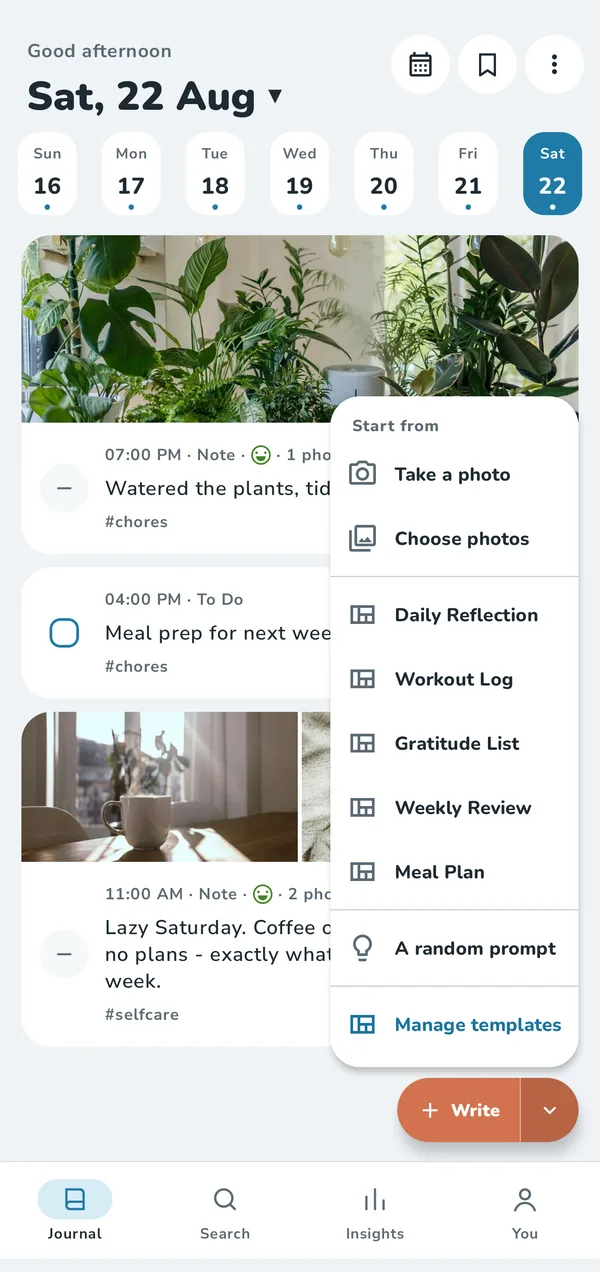
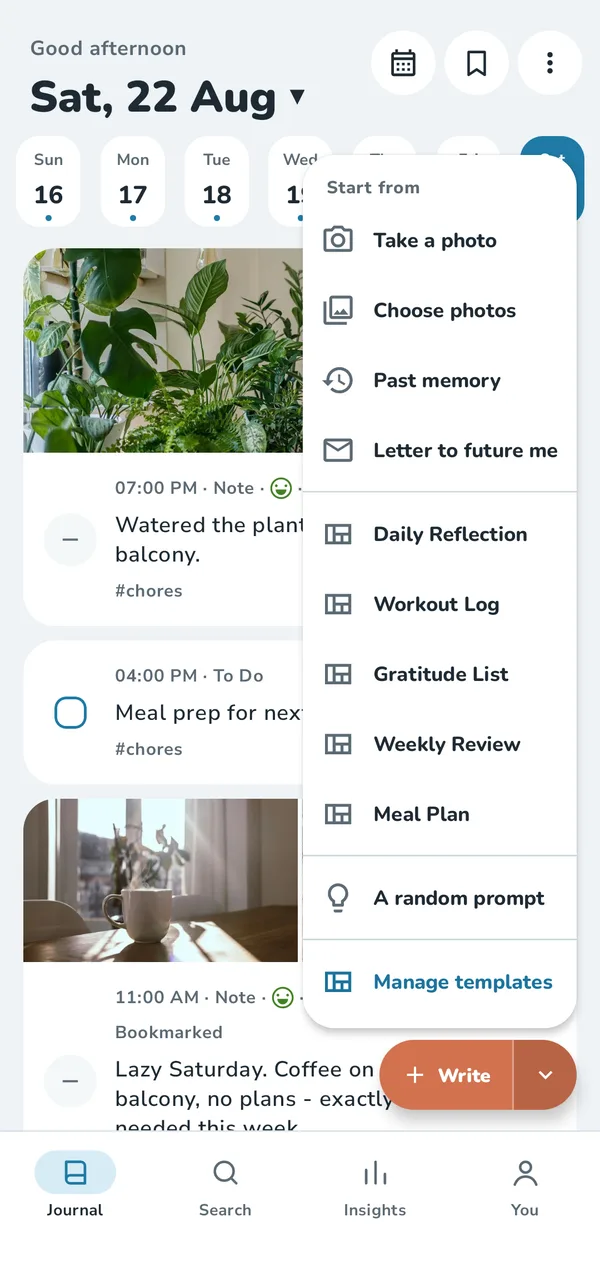
2.9.1: Letters to future me, Past memory, new Write menu and Year in moods shots, letters FAQ

diff --git a/index.html b/index.html
@@ -24,8 +24,8 @@
 <a class="skip" href="#main">Skip to content</a>
 <header class="site-header">
 <div class="wrap header-row">
-<a class="brand" href="index.html"><img src="assets/icon.svg" width="36" height="36" alt=""><span>Tamsi</span></a>
-<nav class="site-nav" aria-label="Main"><ul><li><a href="index.html#features">Features</a></li><li><a href="index.html#premium">Premium</a></li><li><a href="faq.html">Help</a></li><li><a href="privacy.html">Privacy</a></li></ul></nav>
+<a class="brand" href="/"><img src="assets/icon.svg" width="36" height="36" alt=""><span>Tamsi</span></a>
+<nav class="site-nav" aria-label="Main"><ul><li><a href="/#features">Features</a></li><li><a href="/#premium">Premium</a></li><li><a href="faq.html">Help</a></li><li><a href="privacy.html">Privacy</a></li></ul></nav>
 <a class="button button-small header-cta" href="https://play.google.com/store/apps/details?id=com.odralliv.quickjournal"><svg viewBox="0 0 24 24" aria-hidden="true" focusable="false"><path fill="currentColor" d="M7 4.5v15a1 1 0 0 0 1.5.86l12-7.5a1 1 0 0 0 0-1.72l-12-7.5A1 1 0 0 0 7 4.5Z"/></svg><span>Get the app</span></a>
 </div>
 </header>
@@ -64,15 +64,24 @@ before the moment is gone. Then back to your day.</p>
 <p class="lede">Open, write a line, close. Tamsi keeps the friction out so the habit can stay.</p>
 </header>
 <section class="feature">
-<div class="feature-media"><div class="phone"><img src="assets/shots/write-menu.webp" width="600" height="1272" alt="The Journal screen with the Write menu open: take a photo, choose photos, templates and a random prompt" loading="lazy" decoding="async"></div></div>
+<div class="feature-media"><div class="phone"><img src="assets/shots/write-menu.webp" width="600" height="1272" alt="The Journal screen with the Write menu open: take a photo, choose photos, past memory, letter to future me, templates and a random prompt" loading="lazy" decoding="async"></div></div>
 <div class="feature-text">
 <p class="eyebrow">Writing</p>
 <h2>One tap to write.</h2>
-<p class="lede">Tap Write and a fresh page is ready with the keyboard up. Or start from a photo, a template or a prompt.</p>
-<ul class="checks"><li><svg viewBox="0 0 24 24" aria-hidden="true" focusable="false" fill="none" stroke="currentColor" stroke-width="1.8" stroke-linecap="round" stroke-linejoin="round"><path d="M5 12.5l4.5 4.5L19 7.5"/></svg><span>Templates for the things you log often</span></li><li><svg viewBox="0 0 24 24" aria-hidden="true" focusable="false" fill="none" stroke="currentColor" stroke-width="1.8" stroke-linecap="round" stroke-linejoin="round"><path d="M5 12.5l4.5 4.5L19 7.5"/></svg><span>A Write widget and a Quick Settings tile</span></li><li><svg viewBox="0 0 24 24" aria-hidden="true" focusable="false" fill="none" stroke="currentColor" stroke-width="1.8" stroke-linecap="round" stroke-linejoin="round"><path d="M5 12.5l4.5 4.5L19 7.5"/></svg><span>Daily reminder at the time you choose</span></li></ul>
+<p class="lede">Tap Write and a fresh page is ready with the keyboard up. Or start from a photo, a past memory, a template or a prompt.</p>
+<ul class="checks"><li><svg viewBox="0 0 24 24" aria-hidden="true" focusable="false" fill="none" stroke="currentColor" stroke-width="1.8" stroke-linecap="round" stroke-linejoin="round"><path d="M5 12.5l4.5 4.5L19 7.5"/></svg><span>Past memory: start from an old photo and the entry lands on the day it was taken</span></li><li><svg viewBox="0 0 24 24" aria-hidden="true" focusable="false" fill="none" stroke="currentColor" stroke-width="1.8" stroke-linecap="round" stroke-linejoin="round"><path d="M5 12.5l4.5 4.5L19 7.5"/></svg><span>Templates for the things you log often</span></li><li><svg viewBox="0 0 24 24" aria-hidden="true" focusable="false" fill="none" stroke="currentColor" stroke-width="1.8" stroke-linecap="round" stroke-linejoin="round"><path d="M5 12.5l4.5 4.5L19 7.5"/></svg><span>A Write widget and a Quick Settings tile</span></li><li><svg viewBox="0 0 24 24" aria-hidden="true" focusable="false" fill="none" stroke="currentColor" stroke-width="1.8" stroke-linecap="round" stroke-linejoin="round"><path d="M5 12.5l4.5 4.5L19 7.5"/></svg><span>Daily reminder at the time you choose</span></li></ul>
 </div>
 </section>
 <section class="feature feature-flip">
+<div class="feature-media"><div class="phone"><img src="assets/shots/letters.webp" width="600" height="1272" alt="Letters to future me: five sealed letters, opening in 5 weeks, 6 weeks, 2 months, 10 months and 4 years" loading="lazy" decoding="async"></div></div>
+<div class="feature-text">
+<p class="eyebrow">Letters to future me</p>
+<h2>Write to future you.</h2>
+<p class="lede">Seal a letter and choose the day it opens: next month, next year or years from now. Until then it stays sealed.</p>
+<ul class="checks"><li><svg viewBox="0 0 24 24" aria-hidden="true" focusable="false" fill="none" stroke="currentColor" stroke-width="1.8" stroke-linecap="round" stroke-linejoin="round"><path d="M5 12.5l4.5 4.5L19 7.5"/></svg><span>It waits in your journal on the day it opens</span></li><li><svg viewBox="0 0 24 24" aria-hidden="true" focusable="false" fill="none" stroke="currentColor" stroke-width="1.8" stroke-linecap="round" stroke-linejoin="round"><path d="M5 12.5l4.5 4.5L19 7.5"/></svg><span>A note that morning, if you want one</span></li><li><svg viewBox="0 0 24 24" aria-hidden="true" focusable="false" fill="none" stroke="currentColor" stroke-width="1.8" stroke-linecap="round" stroke-linejoin="round"><path d="M5 12.5l4.5 4.5L19 7.5"/></svg><span>Every letter you've sealed, with how long until each one opens</span></li></ul>
+</div>
+</section>
+<section class="feature">
 <div class="feature-media"><div class="phone"><img src="assets/shots/widgets.webp" width="600" height="1272" alt="Three Tamsi home-screen widgets: Write with camera and gallery buttons, Templates and Saved searches" loading="lazy" decoding="async"></div></div>
 <div class="feature-text">
 <p class="eyebrow">Widgets</p>
@@ -81,7 +90,7 @@ before the moment is gone. Then back to your day.</p>
 <ul class="checks"><li><svg viewBox="0 0 24 24" aria-hidden="true" focusable="false" fill="none" stroke="currentColor" stroke-width="1.8" stroke-linecap="round" stroke-linejoin="round"><path d="M5 12.5l4.5 4.5L19 7.5"/></svg><span>Write, camera and gallery buttons in one widget</span></li><li><svg viewBox="0 0 24 24" aria-hidden="true" focusable="false" fill="none" stroke="currentColor" stroke-width="1.8" stroke-linecap="round" stroke-linejoin="round"><path d="M5 12.5l4.5 4.5L19 7.5"/></svg><span>Your templates and saved searches, one tap away</span></li><li><svg viewBox="0 0 24 24" aria-hidden="true" focusable="false" fill="none" stroke="currentColor" stroke-width="1.8" stroke-linecap="round" stroke-linejoin="round"><path d="M5 12.5l4.5 4.5L19 7.5"/></svg><span>Each widget has its own settings: how see-through it is, and the colour of its text and icons</span></li><li><svg viewBox="0 0 24 24" aria-hidden="true" focusable="false" fill="none" stroke="currentColor" stroke-width="1.8" stroke-linecap="round" stroke-linejoin="round"><path d="M5 12.5l4.5 4.5L19 7.5"/></svg><span>Names stay hidden while app lock is on, unless you choose to show them</span></li></ul>
 </div>
 </section>
-<section class="feature">
+<section class="feature feature-flip">
 <div class="feature-media"><div class="phone"><img src="assets/shots/journal-week.webp" width="600" height="1272" alt="A week in the journal: an event, a finished to-do and a photo note" loading="lazy" decoding="async"></div></div>
 <div class="feature-text">
 <p class="eyebrow">Your day, your way</p>
@@ -90,7 +99,7 @@ before the moment is gone. Then back to your day.</p>
 <ul class="checks"><li><svg viewBox="0 0 24 24" aria-hidden="true" focusable="false" fill="none" stroke="currentColor" stroke-width="1.8" stroke-linecap="round" stroke-linejoin="round"><path d="M5 12.5l4.5 4.5L19 7.5"/></svg><span>To-dos you can tick off, with unfinished ones moved to today if you like</span></li><li><svg viewBox="0 0 24 24" aria-hidden="true" focusable="false" fill="none" stroke="currentColor" stroke-width="1.8" stroke-linecap="round" stroke-linejoin="round"><path d="M5 12.5l4.5 4.5L19 7.5"/></svg><span>Search by words, #tags and moods, saved searches and Insights</span></li><li><svg viewBox="0 0 24 24" aria-hidden="true" focusable="false" fill="none" stroke="currentColor" stroke-width="1.8" stroke-linecap="round" stroke-linejoin="round"><path d="M5 12.5l4.5 4.5L19 7.5"/></svg><span>On this day: what you wrote in past years</span></li></ul>
 </div>
 </section>
-<section class="feature feature-flip">
+<section class="feature">
 <div class="feature-media"><div class="phone"><img src="assets/shots/editor.webp" width="600" height="1272" alt="An entry about a hike with four photos, a mood and two tags" loading="lazy" decoding="async"></div></div>
 <div class="feature-text">
 <p class="eyebrow">Photos</p>
@@ -99,7 +108,7 @@ before the moment is gone. Then back to your day.</p>
 <ul class="checks"><li><svg viewBox="0 0 24 24" aria-hidden="true" focusable="false" fill="none" stroke="currentColor" stroke-width="1.8" stroke-linecap="round" stroke-linejoin="round"><path d="M5 12.5l4.5 4.5L19 7.5"/></svg><span>Location and camera details are removed from the copy Tamsi keeps</span></li><li><svg viewBox="0 0 24 24" aria-hidden="true" focusable="false" fill="none" stroke="currentColor" stroke-width="1.8" stroke-linecap="round" stroke-linejoin="round"><path d="M5 12.5l4.5 4.5L19 7.5"/></svg><span>Your original photos stay untouched in your gallery</span></li><li><svg viewBox="0 0 24 24" aria-hidden="true" focusable="false" fill="none" stroke="currentColor" stroke-width="1.8" stroke-linecap="round" stroke-linejoin="round"><path d="M5 12.5l4.5 4.5L19 7.5"/></svg><span>Share photos from an entry to any app</span></li></ul>
 </div>
 </section>
-<section class="feature">
+<section class="feature feature-flip">
 <div class="feature-media"><div class="phone"><img src="assets/shots/look-back.webp" width="600" height="1272" alt="The 2026 so far review: 242 entries on 225 days, a mood mix, top tags, busiest month and photos" loading="lazy" decoding="async"></div></div>
 <div class="feature-text">
 <p class="eyebrow">Look back</p>
@@ -108,16 +117,16 @@ before the moment is gone. Then back to your day.</p>
 <ul class="checks"><li><svg viewBox="0 0 24 24" aria-hidden="true" focusable="false" fill="none" stroke="currentColor" stroke-width="1.8" stroke-linecap="round" stroke-linejoin="round"><path d="M5 12.5l4.5 4.5L19 7.5"/></svg><span>Your top tags, busiest month and the photos you added</span></li><li><svg viewBox="0 0 24 24" aria-hidden="true" focusable="false" fill="none" stroke="currentColor" stroke-width="1.8" stroke-linecap="round" stroke-linejoin="round"><path d="M5 12.5l4.5 4.5L19 7.5"/></svg><span>Rather not see something again? Hide it from look backs</span></li></ul>
 </div>
 </section>
-<section class="feature feature-flip">
-<div class="feature-media"><div class="phone"><img src="assets/shots/year-in-moods.webp" width="600" height="1272" alt="Year in moods for 2026: a grid of coloured squares, one per day, months across and days down" loading="lazy" decoding="async"></div></div>
+<section class="feature">
+<div class="feature-media"><div class="phone"><img src="assets/shots/year-in-moods.webp" width="600" height="1272" alt="Year in moods for 2026: twelve little month calendars, each day coloured by its mood" loading="lazy" decoding="async"></div></div>
 <div class="feature-text">
 <p class="eyebrow">Year in moods</p>
 <h2>A whole year, one square a day.</h2>
 <p class="lede">Each day takes the colour of the mood you gave it, so the good stretches and the hard weeks show at a glance.</p>
-<ul class="checks"><li><svg viewBox="0 0 24 24" aria-hidden="true" focusable="false" fill="none" stroke="currentColor" stroke-width="1.8" stroke-linecap="round" stroke-linejoin="round"><path d="M5 12.5l4.5 4.5L19 7.5"/></svg><span>Today is outlined; days without a mood stay grey</span></li></ul>
+<ul class="checks"><li><svg viewBox="0 0 24 24" aria-hidden="true" focusable="false" fill="none" stroke="currentColor" stroke-width="1.8" stroke-linecap="round" stroke-linejoin="round"><path d="M5 12.5l4.5 4.5L19 7.5"/></svg><span>See each month as a little calendar, or the whole year as one grid</span></li><li><svg viewBox="0 0 24 24" aria-hidden="true" focusable="false" fill="none" stroke="currentColor" stroke-width="1.8" stroke-linecap="round" stroke-linejoin="round"><path d="M5 12.5l4.5 4.5L19 7.5"/></svg><span>Today is outlined; days without a mood stay grey</span></li></ul>
 </div>
 </section>
-<section class="feature">
+<section class="feature feature-flip">
 <div class="feature-media"><div class="phone"><img src="assets/shots/prompt.webp" width="600" height="1272" alt="A new entry that starts with the prompt: What was quietly good about today?" loading="lazy" decoding="async"></div></div>
 <div class="feature-text">
 <p class="eyebrow">Prompts</p>
@@ -205,12 +214,12 @@ the same way on the new one, and restore. <a href="faq.html#new-phone">Step by s
 <footer class="site-footer">
 <div class="wrap footer-grid">
 <div class="footer-brand">
-<a class="brand" href="index.html"><img src="assets/icon.svg" width="36" height="36" alt=""><span>Tamsi</span></a>
+<a class="brand" href="/"><img src="assets/icon.svg" width="36" height="36" alt=""><span>Tamsi</span></a>
 <p>A quick, private journal for Android. Formerly Last Journal.</p>
 </div>
 <nav aria-label="Product"><h2>Product</h2><ul>
-<li><a href="index.html#features">Features</a></li>
-<li><a href="index.html#premium">Premium</a></li>
+<li><a href="/#features">Features</a></li>
+<li><a href="/#premium">Premium</a></li>
 <li><a href="faq.html">Help</a></li>
 <li><a href="https://play.google.com/store/apps/details?id=com.odralliv.quickjournal">Google Play</a></li>
 </ul></nav>

diff --git a/faq.html b/faq.html
@@ -24,8 +24,8 @@
 <a class="skip" href="#main">Skip to content</a>
 <header class="site-header">
 <div class="wrap header-row">
-<a class="brand" href="index.html"><img src="assets/icon.svg" width="36" height="36" alt=""><span>Tamsi</span></a>
-<nav class="site-nav" aria-label="Main"><ul><li><a href="index.html#features">Features</a></li><li><a href="index.html#premium">Premium</a></li><li><a href="faq.html" aria-current="page">Help</a></li><li><a href="privacy.html">Privacy</a></li></ul></nav>
+<a class="brand" href="/"><img src="assets/icon.svg" width="36" height="36" alt=""><span>Tamsi</span></a>
+<nav class="site-nav" aria-label="Main"><ul><li><a href="/#features">Features</a></li><li><a href="/#premium">Premium</a></li><li><a href="faq.html" aria-current="page">Help</a></li><li><a href="privacy.html">Privacy</a></li></ul></nav>
 <a class="button button-small header-cta" href="https://play.google.com/store/apps/details?id=com.odralliv.quickjournal"><svg viewBox="0 0 24 24" aria-hidden="true" focusable="false"><path fill="currentColor" d="M7 4.5v15a1 1 0 0 0 1.5.86l12-7.5a1 1 0 0 0 0-1.72l-12-7.5A1 1 0 0 0 7 4.5Z"/></svg><span>Get the app</span></a>
 </div>
 </header>
@@ -140,6 +140,17 @@ coloured by the mood you gave it. Find them in the <strong>Insights</strong> tab
 <p>Free includes last month's review and this year's moods. Premium opens every month and year.</p>
 </div>
 </details>
+<details id="letters">
+<summary>How do letters to future me work?</summary>
+<div class="answer">
+<p>Tap <strong>Write ▾</strong> and choose <strong>Letter to future me</strong>. Write it, pick the day it
+opens (a year from now unless you change it, and at the earliest tomorrow), then <strong>Seal</strong> it. Tick
+<strong>Notify me that day</strong> if you'd like a note when it's ready.</p>
+<p>Until then its words don't show anywhere. It waits sealed in <strong>You › Letters to future me</strong> and on
+its day in your journal. You can still open it early, but once it's open it can't be sealed again. Letters are
+backed up with the rest of your journal.</p>
+</div>
+</details>
 <details id="hide-look-back">
 <summary>Can I keep an entry out of my look backs?</summary>
 <div class="answer">
@@ -237,12 +248,12 @@ ideas. For an account question, write from the email address you sign in with.</
 <footer class="site-footer">
 <div class="wrap footer-grid">
 <div class="footer-brand">
-<a class="brand" href="index.html"><img src="assets/icon.svg" width="36" height="36" alt=""><span>Tamsi</span></a>
+<a class="brand" href="/"><img src="assets/icon.svg" width="36" height="36" alt=""><span>Tamsi</span></a>
 <p>A quick, private journal for Android. Formerly Last Journal.</p>
 </div>
 <nav aria-label="Product"><h2>Product</h2><ul>
-<li><a href="index.html#features">Features</a></li>
-<li><a href="index.html#premium">Premium</a></li>
+<li><a href="/#features">Features</a></li>
+<li><a href="/#premium">Premium</a></li>
 <li><a href="faq.html">Help</a></li>
 <li><a href="https://play.google.com/store/apps/details?id=com.odralliv.quickjournal">Google Play</a></li>
 </ul></nav>

diff --git a/404.html b/404.html
@@ -24,8 +24,8 @@
 <a class="skip" href="#main">Skip to content</a>
 <header class="site-header">
 <div class="wrap header-row">
-<a class="brand" href="/index.html"><img src="/assets/icon.svg" width="36" height="36" alt=""><span>Tamsi</span></a>
-<nav class="site-nav" aria-label="Main"><ul><li><a href="/index.html#features">Features</a></li><li><a href="/index.html#premium">Premium</a></li><li><a href="/faq.html">Help</a></li><li><a href="/privacy.html">Privacy</a></li></ul></nav>
+<a class="brand" href="/"><img src="/assets/icon.svg" width="36" height="36" alt=""><span>Tamsi</span></a>
+<nav class="site-nav" aria-label="Main"><ul><li><a href="/#features">Features</a></li><li><a href="/#premium">Premium</a></li><li><a href="/faq.html">Help</a></li><li><a href="/privacy.html">Privacy</a></li></ul></nav>
 <a class="button button-small header-cta" href="https://play.google.com/store/apps/details?id=com.odralliv.quickjournal"><svg viewBox="0 0 24 24" aria-hidden="true" focusable="false"><path fill="currentColor" d="M7 4.5v15a1 1 0 0 0 1.5.86l12-7.5a1 1 0 0 0 0-1.72l-12-7.5A1 1 0 0 0 7 4.5Z"/></svg><span>Get the app</span></a>
 </div>
 </header>
@@ -33,7 +33,7 @@
 <div class="wrap wrap-text">
 <section class="card">
 <h1>Page not found</h1>
-<p>That page isn't here. If you followed a link from the app, try the <a href="/index.html">home page</a>, the
+<p>That page isn't here. If you followed a link from the app, try the <a href="/">home page</a>, the
 <a href="/privacy.html">Privacy Policy</a> or the <a href="/terms.html">Terms of Use</a>.</p>
 <p>Still stuck? Email <a href="mailto:support@tamsijournal.com">support@tamsijournal.com</a>.</p>
 </section>
@@ -42,12 +42,12 @@
 <footer class="site-footer">
 <div class="wrap footer-grid">
 <div class="footer-brand">
-<a class="brand" href="/index.html"><img src="/assets/icon.svg" width="36" height="36" alt=""><span>Tamsi</span></a>
+<a class="brand" href="/"><img src="/assets/icon.svg" width="36" height="36" alt=""><span>Tamsi</span></a>
 <p>A quick, private journal for Android. Formerly Last Journal.</p>
 </div>
 <nav aria-label="Product"><h2>Product</h2><ul>
-<li><a href="/index.html#features">Features</a></li>
-<li><a href="/index.html#premium">Premium</a></li>
+<li><a href="/#features">Features</a></li>
+<li><a href="/#premium">Premium</a></li>
 <li><a href="/faq.html">Help</a></li>
 <li><a href="https://play.google.com/store/apps/details?id=com.odralliv.quickjournal">Google Play</a></li>
 </ul></nav>

diff --git a/privacy.html b/privacy.html
@@ -24,8 +24,8 @@
 <a class="skip" href="#main">Skip to content</a>
 <header class="site-header">
 <div class="wrap header-row">
-<a class="brand" href="index.html"><img src="assets/icon.svg" width="36" height="36" alt=""><span>Tamsi</span></a>
-<nav class="site-nav" aria-label="Main"><ul><li><a href="index.html#features">Features</a></li><li><a href="index.html#premium">Premium</a></li><li><a href="faq.html">Help</a></li><li><a href="privacy.html" aria-current="page">Privacy</a></li></ul></nav>
+<a class="brand" href="/"><img src="assets/icon.svg" width="36" height="36" alt=""><span>Tamsi</span></a>
+<nav class="site-nav" aria-label="Main"><ul><li><a href="/#features">Features</a></li><li><a href="/#premium">Premium</a></li><li><a href="faq.html">Help</a></li><li><a href="privacy.html" aria-current="page">Privacy</a></li></ul></nav>
 <a class="button button-small header-cta" href="https://play.google.com/store/apps/details?id=com.odralliv.quickjournal"><svg viewBox="0 0 24 24" aria-hidden="true" focusable="false"><path fill="currentColor" d="M7 4.5v15a1 1 0 0 0 1.5.86l12-7.5a1 1 0 0 0 0-1.72l-12-7.5A1 1 0 0 0 7 4.5Z"/></svg><span>Get the app</span></a>
 </div>
 </header>
@@ -86,12 +86,12 @@ Our previous contact address still reaches us.</p>
 <footer class="site-footer">
 <div class="wrap footer-grid">
 <div class="footer-brand">
-<a class="brand" href="index.html"><img src="assets/icon.svg" width="36" height="36" alt=""><span>Tamsi</span></a>
+<a class="brand" href="/"><img src="assets/icon.svg" width="36" height="36" alt=""><span>Tamsi</span></a>
 <p>A quick, private journal for Android. Formerly Last Journal.</p>
 </div>
 <nav aria-label="Product"><h2>Product</h2><ul>
-<li><a href="index.html#features">Features</a></li>
-<li><a href="index.html#premium">Premium</a></li>
+<li><a href="/#features">Features</a></li>
+<li><a href="/#premium">Premium</a></li>
 <li><a href="faq.html">Help</a></li>
 <li><a href="https://play.google.com/store/apps/details?id=com.odralliv.quickjournal">Google Play</a></li>
 </ul></nav>

diff --git a/delete-account.html b/delete-account.html
@@ -24,8 +24,8 @@
 <a class="skip" href="#main">Skip to content</a>
 <header class="site-header">
 <div class="wrap header-row">
-<a class="brand" href="index.html"><img src="assets/icon.svg" width="36" height="36" alt=""><span>Tamsi</span></a>
-<nav class="site-nav" aria-label="Main"><ul><li><a href="index.html#features">Features</a></li><li><a href="index.html#premium">Premium</a></li><li><a href="faq.html">Help</a></li><li><a href="privacy.html">Privacy</a></li></ul></nav>
+<a class="brand" href="/"><img src="assets/icon.svg" width="36" height="36" alt=""><span>Tamsi</span></a>
+<nav class="site-nav" aria-label="Main"><ul><li><a href="/#features">Features</a></li><li><a href="/#premium">Premium</a></li><li><a href="faq.html">Help</a></li><li><a href="privacy.html">Privacy</a></li></ul></nav>
 <a class="button button-small header-cta" href="https://play.google.com/store/apps/details?id=com.odralliv.quickjournal"><svg viewBox="0 0 24 24" aria-hidden="true" focusable="false"><path fill="currentColor" d="M7 4.5v15a1 1 0 0 0 1.5.86l12-7.5a1 1 0 0 0 0-1.72l-12-7.5A1 1 0 0 0 7 4.5Z"/></svg><span>Get the app</span></a>
 </div>
 </header>
@@ -113,12 +113,12 @@ the device as well, delete the entries in the app or uninstall it.</p>
 <footer class="site-footer">
 <div class="wrap footer-grid">
 <div class="footer-brand">
-<a class="brand" href="index.html"><img src="assets/icon.svg" width="36" height="36" alt=""><span>Tamsi</span></a>
+<a class="brand" href="/"><img src="assets/icon.svg" width="36" height="36" alt=""><span>Tamsi</span></a>
 <p>A quick, private journal for Android. Formerly Last Journal.</p>
 </div>
 <nav aria-label="Product"><h2>Product</h2><ul>
-<li><a href="index.html#features">Features</a></li>
-<li><a href="index.html#premium">Premium</a></li>
+<li><a href="/#features">Features</a></li>
+<li><a href="/#premium">Premium</a></li>
 <li><a href="faq.html">Help</a></li>
 <li><a href="https://play.google.com/store/apps/details?id=com.odralliv.quickjournal">Google Play</a></li>
 </ul></nav>

diff --git a/terms.html b/terms.html
@@ -24,8 +24,8 @@
 <a class="skip" href="#main">Skip to content</a>
 <header class="site-header">
 <div class="wrap header-row">
-<a class="brand" href="index.html"><img src="assets/icon.svg" width="36" height="36" alt=""><span>Tamsi</span></a>
-<nav class="site-nav" aria-label="Main"><ul><li><a href="index.html#features">Features</a></li><li><a href="index.html#premium">Premium</a></li><li><a href="faq.html">Help</a></li><li><a href="privacy.html">Privacy</a></li></ul></nav>
+<a class="brand" href="/"><img src="assets/icon.svg" width="36" height="36" alt=""><span>Tamsi</span></a>
+<nav class="site-nav" aria-label="Main"><ul><li><a href="/#features">Features</a></li><li><a href="/#premium">Premium</a></li><li><a href="faq.html">Help</a></li><li><a href="privacy.html">Privacy</a></li></ul></nav>
 <a class="button button-small header-cta" href="https://play.google.com/store/apps/details?id=com.odralliv.quickjournal"><svg viewBox="0 0 24 24" aria-hidden="true" focusable="false"><path fill="currentColor" d="M7 4.5v15a1 1 0 0 0 1.5.86l12-7.5a1 1 0 0 0 0-1.72l-12-7.5A1 1 0 0 0 7 4.5Z"/></svg><span>Get the app</span></a>
 </div>
 </header>
@@ -90,12 +90,12 @@ Our previous contact address still reaches us.</p>
 <footer class="site-footer">
 <div class="wrap footer-grid">
 <div class="footer-brand">
-<a class="brand" href="index.html"><img src="assets/icon.svg" width="36" height="36" alt=""><span>Tamsi</span></a>
+<a class="brand" href="/"><img src="assets/icon.svg" width="36" height="36" alt=""><span>Tamsi</span></a>
 <p>A quick, private journal for Android. Formerly Last Journal.</p>
 </div>
 <nav aria-label="Product"><h2>Product</h2><ul>
-<li><a href="index.html#features">Features</a></li>
-<li><a href="index.html#premium">Premium</a></li>
+<li><a href="/#features">Features</a></li>
+<li><a href="/#premium">Premium</a></li>
 <li><a href="faq.html">Help</a></li>
 <li><a href="https://play.google.com/store/apps/details?id=com.odralliv.quickjournal">Google Play</a></li>
 </ul></nav>
